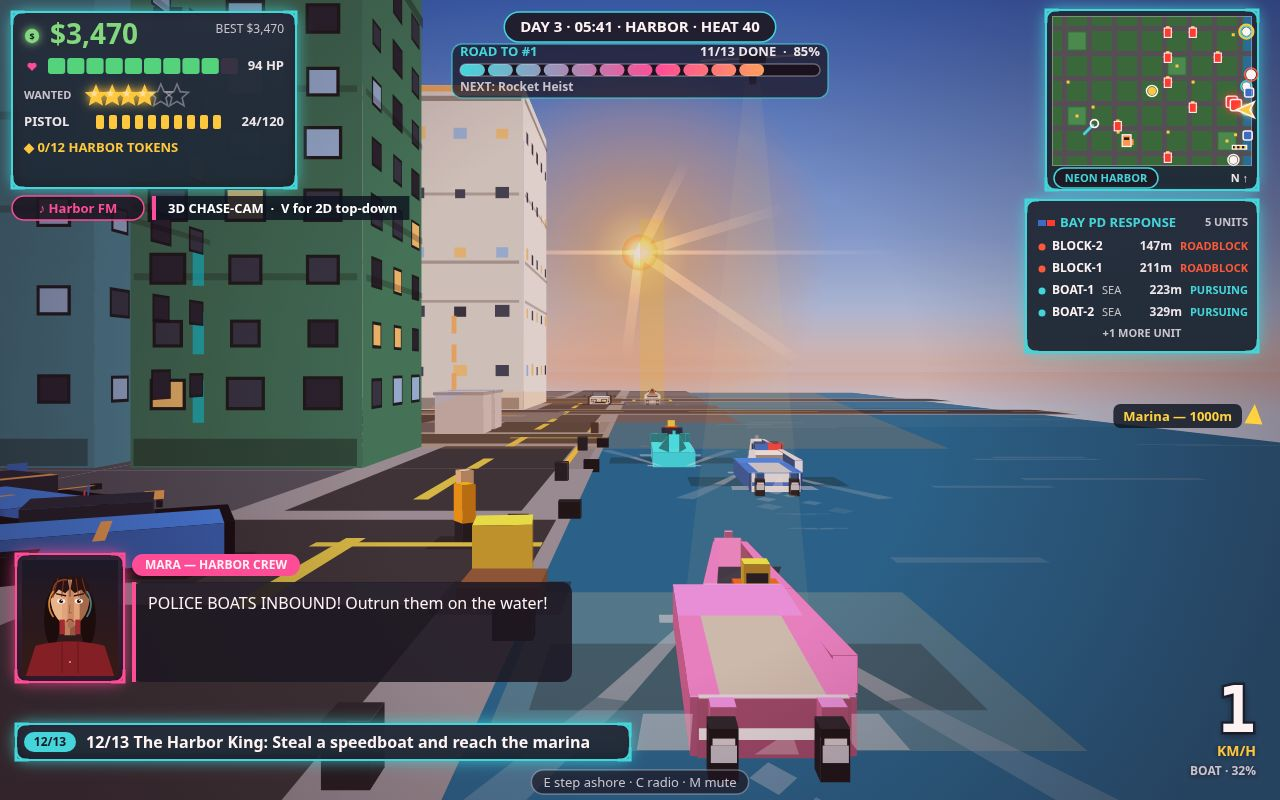
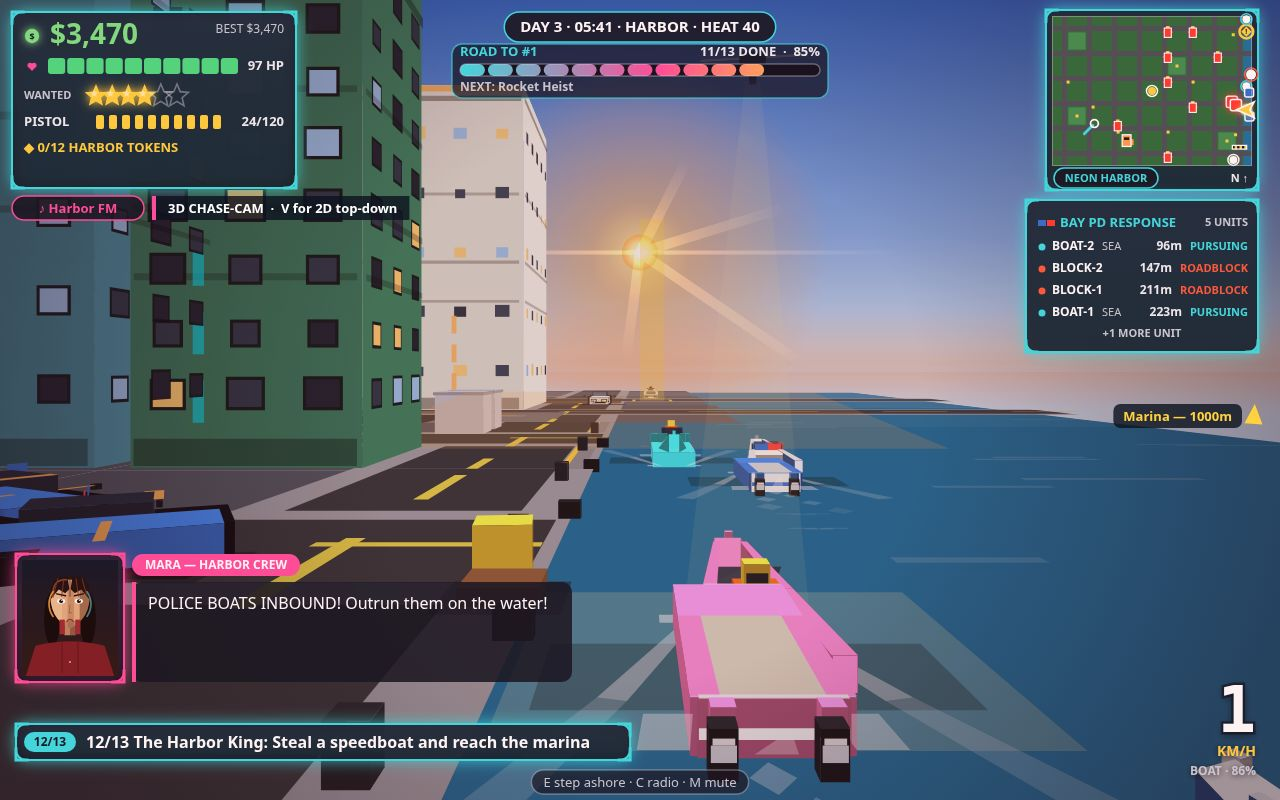
R25m: BUG-BLITZ gameplay — RAM, ARREST, M6, PAGEERROR (BUG 9 dead live), BOAT-BUOY (0 stalled), TRAFFIC (BUG 8 queue overlap dead live), M11, DRAWBRIDGE-FOLLOWUP (edge-pin dead, jump threshold 230); dossier 163.832/163.840 (+12 B), check 4/0, M13 17/17. Known limitation for R27: M11 boat2 path fails

diff --git a/game/src/traffic.js b/game/src/traffic.js
@@ -1,9 +1,5 @@
 import { ROAD_W, WORLD_H, WORLD_W } from './config.js';
 import { WATER_X, buildingAt, onRoad } from './city.js';
-const TRAFFIC_COUNT = 16;
-const PARKED_COUNT = 12;
-const PED_COUNT = 26;
-const FIXED = { bus: '#e8b93c', fire: '#c0392b', medic: '#f5f5f5' };
 export const CAR_BODIES = {
   sedan: { length: 46, width: 22 },
   hatch: { length: 40, width: 22 },
@@ -14,20 +10,20 @@ export function makeCar(x, y, angle, color, kind, body) {
   const shape = CAR_BODIES[body || 'sedan'] || { length: 46, width: 22 };
   return {
     x, y, angle, speed: 0, color, kind: kind || 'traffic',
-    body: body || 'sedan', length: shape.length, width: shape.width,
+    body: body || 'sedan', ...shape,
     alive: true, health: 2,
   };
 }
 export function createTraffic(city, rng) {
   const cars = [];
-  for (let i = 0; i < TRAFFIC_COUNT; i += 1) {
+  for (let i = 0; i < 16; i += 1) {
     const vertical = rng.chance(0.5);
-    const body = rng.weighted([['sedan', 4], ['hatch', 2], ['hatchback', 2], ['sedanL', 2], ['pickup', 2], ['van', 1], ['taxi', 2], ['bus', 1], ['fire', 1], ['medic', 1]]);
-    const color = FIXED[body] || (body === 'taxi' ? '#f7c948' : rng.pick(city.carColors));
+    const body = rng.weighted(BODIES);
+    const color = { bus: '#e8b93c', fire: '#c0392b', medic: '#f5f5f5' }[body] || (body === 'taxi' ? '#f7c948' : rng.pick(city.carColors));
     let car;
     if (vertical) {
       const rx = rng.pick(city.roadsV);
-      car = makeCar(rx + (rng.chance(0.5) ? 18 : -18), rng.range(40, WORLD_H - 40), rng.chance(0.5) ? Math.PI / 2 : -Math.PI / 2, color, 'traffic', body);
+      car = makeCar(rx + (rng.chance(0.5) ? 18 : -18), rng.range(40, WORLD_H - 40), rng.chance(0.5) ? PI2 : -PI2, color, 'traffic', body);
       car.axis = 'v';
       car.road = rx;
       car.dir = car.angle > 0 ? 1 : -1;
@@ -47,13 +43,13 @@ export function createTraffic(city, rng) {
   cab.color = '#ff7fc0';
   cab.pink = true;
   const parked = [];
-  for (let i = 0; i < PARKED_COUNT; i += 1) {
+  for (let i = 0; i < 12; i += 1) {
     const vertical = rng.chance(0.5);
-    const body = rng.weighted([['sedan', 4], ['hatch', 2], ['hatchback', 2], ['sedanL', 2], ['pickup', 2], ['van', 1], ['taxi', 1]]);
+    const body = rng.weighted(BODIES.slice(0, 7));
     const color = body === 'taxi' ? '#f7c948' : rng.pick(city.carColors);
     if (vertical) {
       const rx = rng.pick(city.roadsV);
-      parked.push(makeCar(rx + 24, rng.range(200, WORLD_H - 200), Math.PI / 2, color, 'parked', body));
+      parked.push(makeCar(rx + 24, rng.range(200, WORLD_H - 200), PI2, color, 'parked', body));
     } else {
       const ry = rng.pick(city.roadsH);
       parked.push(makeCar(rng.range(200, WATER_X - 200), ry + 24, 0, color, 'parked', body));
@@ -61,7 +57,7 @@ export function createTraffic(city, rng) {
   }
   return { cars, parked };
 }
-function nextIntersectionCoord(car, city) {
+function nextX(car, city) {
   const line = car.axis === 'v' ? city.roadsH : city.roadsV;
   const at = car.axis === 'v' ? car.y : car.x;
   let best = null;
@@ -71,7 +67,7 @@ function nextIntersectionCoord(car, city) {
   }
   return best;
 }
-function blockedAhead(car, others, gap) {
+function blocked(car, others, gap) {
   const fx = Math.cos(car.angle);
   const fy = Math.sin(car.angle);
   for (const o of others) {
@@ -86,11 +82,11 @@ function blockedAhead(car, others, gap) {
   return false;
 }
 export function stepTraffic(traffic, dt, city, obstacles, bridge) {
-  const slowObstacles = (obstacles || []).filter((o) => Math.abs(o.speed || 0) < 150);
-  const others = traffic.cars.concat(slowObstacles);
+  const slow = (obstacles || []).filter((o) => Math.abs(o.speed || 0) < 150);
+  const others = traffic.cars.concat(slow);
   for (const car of traffic.cars) {
     if (!car.alive || car.kind === 'player') continue;
-    const next = nextIntersectionCoord(car, city);
+    const next = nextX(car, city);
     const at = car.axis === 'v' ? car.y : car.x;
     const distToNext = next === null ? Infinity : Math.abs(next - at);
     if (distToNext < Math.max(6, car.speed * dt + 2)) {
@@ -108,54 +104,63 @@ export function stepTraffic(traffic, dt, city, obstacles, bridge) {
           car.axis = 'v';
           car.road = next;
           car.dir = newDir;
-          car.angle = newDir > 0 ? Math.PI / 2 : -Math.PI / 2;
+          car.angle = newDir > 0 ? PI2 : -PI2;
           car.x = next + lane;
         }
       }
     }
+    const fx = Math.cos(car.angle), fy = Math.sin(car.angle);
     let desired = car.cruise;
     const d = car.road === 2400 && car.axis === 'v' ? (car.dir < 0 ? car.y - 1720 : 1640 - car.y) : -1;
     if (bridge?.up && d > 0 && d < 200) desired = 0;
-    if (blockedAhead(car, others, 78)) desired = 0;
-    if (distToNext < 90 && blockedAhead({ ...car, x: car.x + Math.cos(car.angle) * 60, y: car.y + Math.sin(car.angle) * 60, angle: car.angle }, others, 60)) desired = 0;
-    if (desired === 0) car.speed = Math.max(0, car.speed - 420 * dt);
-    else car.speed = Math.min(desired, car.speed + 240 * dt);
+    if (blocked(car, others, 98)) desired = 0;
+    if (distToNext < 90 && blocked({ ...car, x: car.x + fx * 60, y: car.y + fy * 60 }, others, 60)) desired = 0;
+    car.speed = desired === 0 ? Math.max(0, car.speed - 420 * dt) : Math.min(desired, car.speed + 240 * dt);
     const step = car.speed * dt;
-    car.x += Math.cos(car.angle) * step;
-    car.y += Math.sin(car.angle) * step;
+    car.x += fx * step;
+    car.y += fy * step;
     if (car.x < -60) car.x = WORLD_W - 40;
     if (car.x > WORLD_W + 60) car.x = -40;
     if (car.y < -60) car.y = WORLD_H - 40;
     if (car.y > WORLD_H + 60) car.y = -40;
   }
+  // BUG 8: unstick same-lane overlaps.
+  for (const a of traffic.cars) for (const b of traffic.cars) {
+    if (!a.alive || !b.alive || a.road !== b.road || a.axis !== b.axis) continue;
+    const v = a.axis === 'v', d = v ? b.y - a.y : b.x - a.x, s = Math.abs(v ? b.x - a.x : b.y - a.y), n = (a.length + b.length) / 2 + 6;
+    if (d > 0 && d < n && s < 26) { const p = (n - d) / 2; a[v ? 'y' : 'x'] -= p; b[v ? 'y' : 'x'] += p; }
+  }
 }
-const PED_SKINS = ['#e8b98a', '#c98d5f', '#8a5a3b', '#f0c8a0'];
-const PED_SHIRTS = ['#e8e4d8', '#f2a65a', '#7fb5d5', '#c39bd3', '#82e0aa', '#f5b7b1', '#e74c3c', '#2ecc71'];
-const PED_PANTS = ['#2c3e50', '#5d4037', '#37474f', '#4a235a', '#1b4f72'];
+const SKINS = ['#e8b98a', '#c98d5f', '#8a5a3b', '#f0c8a0'];
+const SHIRTS = ['#e8e4d8', '#f2a65a', '#7fb5d5', '#c39bd3', '#82e0aa', '#f5b7b1', '#e74c3c', '#2ecc71'];
+const PANTS = ['#2c3e50', '#5d4037', '#37474f', '#4a235a', '#1b4f72'];
+const PI2 = Math.PI / 2;
+const BODIES = [['sedan', 4], ['hatch', 2], ['hatchback', 2], ['sedanL', 2], ['pickup', 2], ['van', 1], ['taxi', 2], ['bus', 1], ['fire', 1], ['medic', 1]];
 export function createPedestrians(city, rng) {
   const peds = [];
-  for (let i = 0; i < PED_COUNT; i += 1) {
+  for (let i = 0; i < 26; i += 1) {
     const vertical = rng.chance(0.5);
     let x;
     let y;
     let angle;
+    const off = rng.chance(0.5) ? ROAD_W / 2 + 4 : -ROAD_W / 2 - 4;
     if (vertical) {
       const rx = rng.pick(city.roadsV);
-      x = rx + (rng.chance(0.5) ? ROAD_W / 2 + 4 : -ROAD_W / 2 - 4);
+      x = rx + off;
       y = rng.range(60, WORLD_H - 60);
-      angle = rng.chance(0.5) ? Math.PI / 2 : -Math.PI / 2;
+      angle = rng.chance(0.5) ? PI2 : -PI2;
     } else {
       const ry = rng.pick(city.roadsH);
       x = rng.range(60, WATER_X - 60);
-      y = ry + (rng.chance(0.5) ? ROAD_W / 2 + 4 : -ROAD_W / 2 - 4);
+      y = ry + off;
       angle = rng.chance(0.5) ? 0 : Math.PI;
     }
     peds.push({
       x, y, angle,
       speed: rng.range(28, 52),
-      color: rng.pick(PED_SHIRTS),
-      skin: rng.pick(PED_SKINS),
-      pants: rng.pick(PED_PANTS),
+      color: rng.pick(SHIRTS),
+      skin: rng.pick(SKINS),
+      pants: rng.pick(PANTS),
       hat: rng.weighted([[0, 5], [1, 3], [2, 2]]),
       build: rng.weighted([['slim', 5], ['wide', 2]]),
       flee: 0,
@@ -220,9 +225,8 @@ export function stepPedestrians(peds, dt, city, danger, chase) {
     }
     if (ped.flee > 0) {
       ped.flee -= dt;
-      const speed = 150;
-      ped.x += fleeX * speed * dt;
-      ped.y += fleeY * speed * dt;
+      ped.x += fleeX * 150 * dt;
+      ped.y += fleeY * 150 * dt;
       ped.angle = Math.atan2(fleeY, fleeX);
     } else {
       ped.x += Math.cos(ped.angle) * ped.speed * dt;

diff --git a/game/src/world.js b/game/src/world.js
@@ -468,7 +468,7 @@ export function createWorld(rng, savedMission, sp) {
     const nx = car.x + (Math.cos(car.angle) * car.speed - Math.sin(car.angle) * car.slide) * dt;
     const ny = car.y + (Math.sin(car.angle) * car.speed + Math.cos(car.angle) * car.slide) * dt;
     const cr = car.body === 'van' ? 30 : 26;
-    const leafBlock = Math.abs(car.speed) < 300;
+    const leafBlock = Math.abs(car.speed) < 230;
     if (collides(city, nx, car.y, cr) || (leafBlock && !leafHit(state.bridge, car.x, car.y, cr) && leafHit(state.bridge, nx, car.y, cr))) {
       car.speed *= -0.25;
       state.events.crash = true;
@@ -481,8 +481,8 @@ export function createWorld(rng, savedMission, sp) {
     } else {
       car.y = ny;
     }
-    car.x = Math.max(24, Math.min(WORLD_W - 24, car.x));
-    car.y = Math.max(24, Math.min(WORLD_H - 24, car.y));
+    car.x = Math.max(cr, Math.min(WORLD_W - cr, car.x));
+    car.y = Math.max(cr, Math.min(WORLD_H - cr, car.y));
     hitScenery(car);
     collideCars(car, dt);
     if (Math.abs(car.speed) > 200 && Math.abs(steer) > 0.6) {
@@ -573,7 +573,7 @@ export function createWorld(rng, savedMission, sp) {
     }
     if (input.wasPressed && input.wasPressed('interact')) {
       if (sp && p.inPlane) sp.exitPlane(state);
-      else if (sp && sp.tryBoardPlane(state)) { /* boarded */ }
+      else if (sp && sp.tryBoardPlane(state)) { }
       else if (p.inBoat) exitBoat();
       else if (p.inCar) exitCar();
       else {
@@ -723,9 +723,7 @@ export function createWorld(rng, savedMission, sp) {
       p.angle = p.boat.angle;
     } else if (p.inCar && p.car) {
       driveCar(p.car, input, dt);
-      p.x = p.car.x;
-      p.y = p.car.y;
-      p.angle = p.car.angle;
+      if (p.car) { p.x = p.car.x; p.y = p.car.y; p.angle = p.car.angle; }
     } else {
       const angle = aimAngle(input, state.camera, view.w, view.h);
       walkPlayer(input, dt, angle);

diff --git a/game/src/missions.js b/game/src/missions.js
@@ -66,12 +66,12 @@ export const MISSION_DEFS = [
   },
   {
     title: 'Vigilante Shift',
-    brief: 'Day 2 — a crew is shaking down the docks. Hold the line at three stars for a full minute.',
-    objective: 'Survive 60 seconds at 3 stars',
+    brief: 'Day 2 — a crew is shaking down the docks. Hold the line at three stars for 45 seconds.',
+    objective: 'Survive 45 seconds at 3 stars',
     reward: MISSION_REWARDS[6],
     dialogue: [
       'MARA: A crew is shaking down the docks — the harbor is ours, not theirs.',
-      'MARA: Make noise. Three stars, one minute. Show them who runs this water.',
+      'MARA: Make noise. Three stars, 45 seconds. Show them who runs this water.',
     ],
   },
   {
@@ -394,8 +394,9 @@ export function updateMission(world, dt) {
     const done = (world.taxiFaresDone || 0) - (mission.count || 0);
     if (done >= 2) completeMission(world);
   } else if (mission.index === 6) {
-    if (world.wanted < 3) addWanted(world, 3 - world.wanted);
-    if (mission.timer > 60) completeMission(world);
+    world.wanted = 3;
+    world.police.heli.active = false;
+    if (mission.timer > 45) completeMission(world);
   } else if (mission.index === 7) {
     if (mission.stage === 0 && near(world, plazaTarget(city), 60)) {
       mission.stage = 1;
@@ -787,7 +788,7 @@ export function currentObjective(world) {
     return `${n} Night Taxi: fares ${Math.min(2, done)}/2 — grab a cab`;
   }
   if (mission.index === 6) {
-    return `${n} Vigilante Shift: survive ${Math.max(0, 60 - mission.timer).toFixed(0)}s at 3 stars`;
+    return `${n} Vigilante Shift: survive ${Math.max(0, 45 - mission.timer).toFixed(0)}s at 3 stars`;
   }
   if (mission.index === 7) {
     return `${n} Courier Dash: drop ${mission.stage + 1}/3 — ${Math.max(0, (mission.limit || 150) - mission.timer).toFixed(0)}s left`;

diff --git a/game/src/police.js b/game/src/police.js
@@ -274,9 +274,7 @@ export function stepPolice(police, state, dt, rng, events) {
       while (diff < -Math.PI) diff += Math.PI * 2;
       unit.angle += Math.max(-3.4 * dt, Math.min(3.4 * dt, diff));
       unit.speed = Math.min(600, unit.speed + 480 * dt);
-      const nbx = unit.x + Math.cos(unit.angle) * unit.speed * dt;
-      const nby = unit.y + Math.sin(unit.angle) * unit.speed * dt;
-      if (!boatHitsObstacle(nbx, nby, 27)) { unit.x = nbx; unit.y = nby; }
+      let a=unit.angle;for(const d of[0,1.57,2.4,-1.57]){const x=unit.x+Math.cos(a+d)*unit.speed*dt,y=unit.y+Math.sin(a+d)*unit.speed*dt;if(!boatHitsObstacle(x,y,27)){unit.x=x;unit.y=y;unit.angle=a+d;break}}
       unit.x = Math.max(WATER_X + 16, Math.min(WORLD_W - 16, unit.x));
       unit.y = Math.max(16, Math.min(WORLD_H - 16, unit.y));
       if (Math.abs(unit.speed) > 120) {
@@ -298,7 +296,7 @@ export function stepPolice(police, state, dt, rng, events) {
         state.player.health = Math.max(0, state.player.health - 3);
         if (player.boat) {
           player.boat.speed *= 0.8;
-          player.boat.hp -= 34;
+          player.boat.hp -= 14;
           if (player.boat.hp <= 0) events.boatSunk = { x: player.boat.x, y: player.boat.y };
         }
         unit.speed *= 0.5;
@@ -377,7 +375,7 @@ export function stepPolice(police, state, dt, rng, events) {
       } else if (unit.kind === 'foot' && dist < 60 && player.inCar) {
         if (Math.abs(player.car.speed) < 60) {
           police.arrestTimer += dt;
-          if (police.arrestTimer > 1.0) busted = true;
+          if (police.arrestTimer > 2.8) busted = true;
         }
       } else {
         police.arrestTimer = Math.max(0, police.arrestTimer - dt);

diff --git a/game/src/boats.js b/game/src/boats.js
@@ -4,7 +4,7 @@ export const BOAT_MAX_SPEED = 620;
 export const BOAT_ACCEL = 520;
 export function createBoats(city, rng) {
   const spots = [
-    { x: WATER_X + 40, y: city.marina.y + 80, angle: -Math.PI / 2 },
+    { x: WATER_X + 40, y: city.marina.y - 80, angle: -Math.PI / 2 },
     { x: WATER_X + 40, y: 900, angle: Math.PI / 2 },
     { x: WATER_X + 40, y: city.docks.y + 140, angle: -Math.PI / 2 },
   ];

diff --git a/game/src/drawbridge.js b/game/src/drawbridge.js
@@ -25,7 +25,7 @@ export function stepBridge(b, s, dt, fx) {
   }
   if (b.up && ((b.timer -= dt) <= 0 || d > 520)) b.up = false;
   if (inGap && !b.inGap && b.up) {
-    if (sp >= 300) {
+    if (sp >= 230) {
       s.events.jump = true; s.events.bridgeJump = true;
       c.speed = Math.sign(c.speed) * 220;
       if (s.mission.index === 11) fx.floater(px, py - 30, 'BRIDGE JUMP!', '#ffd23e');
